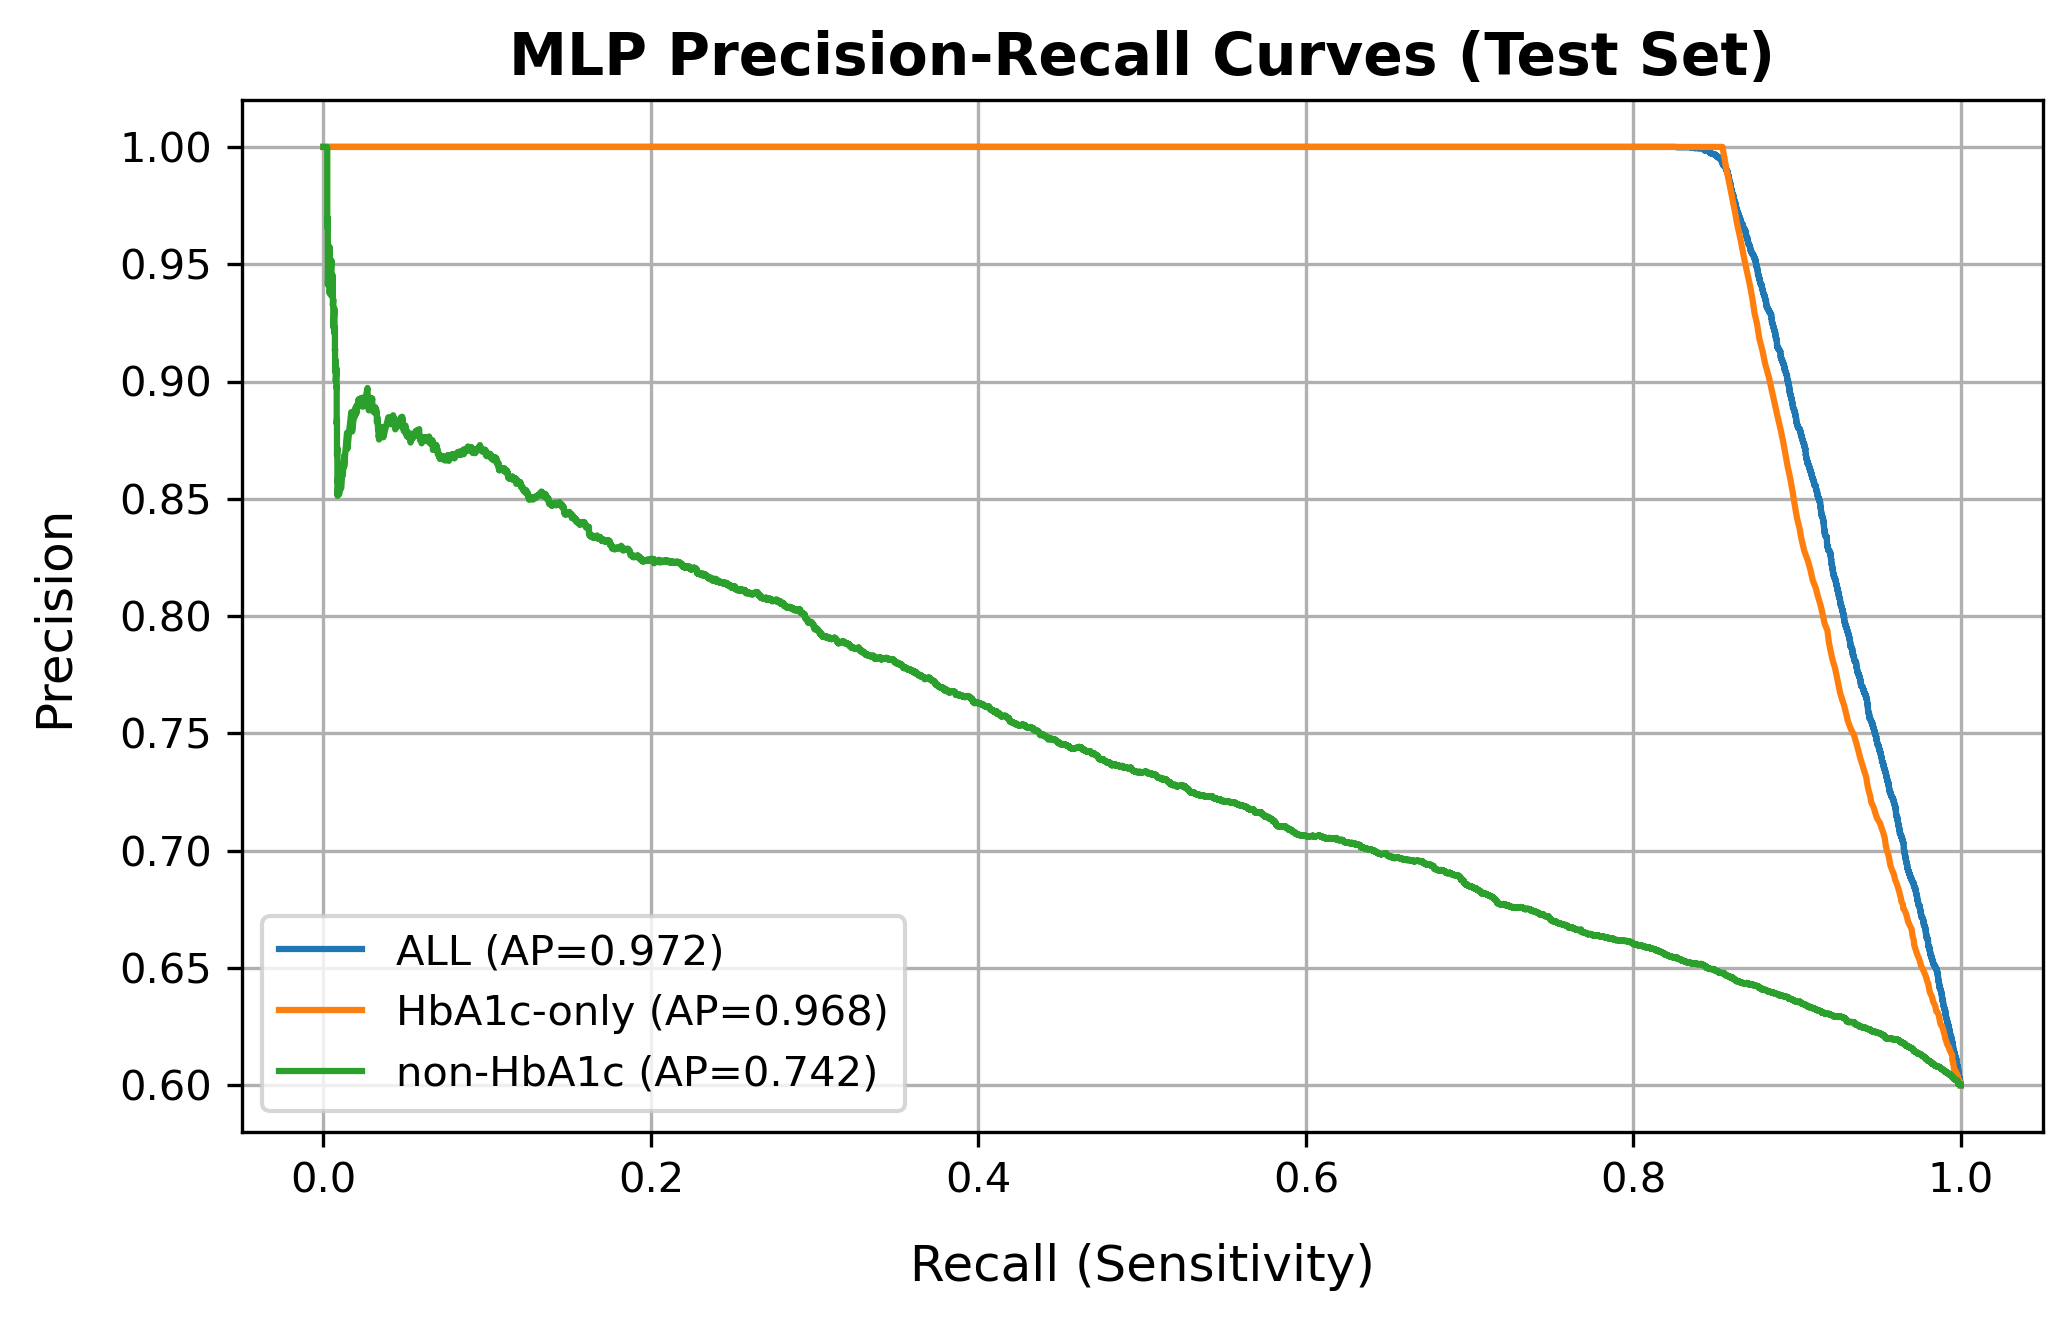
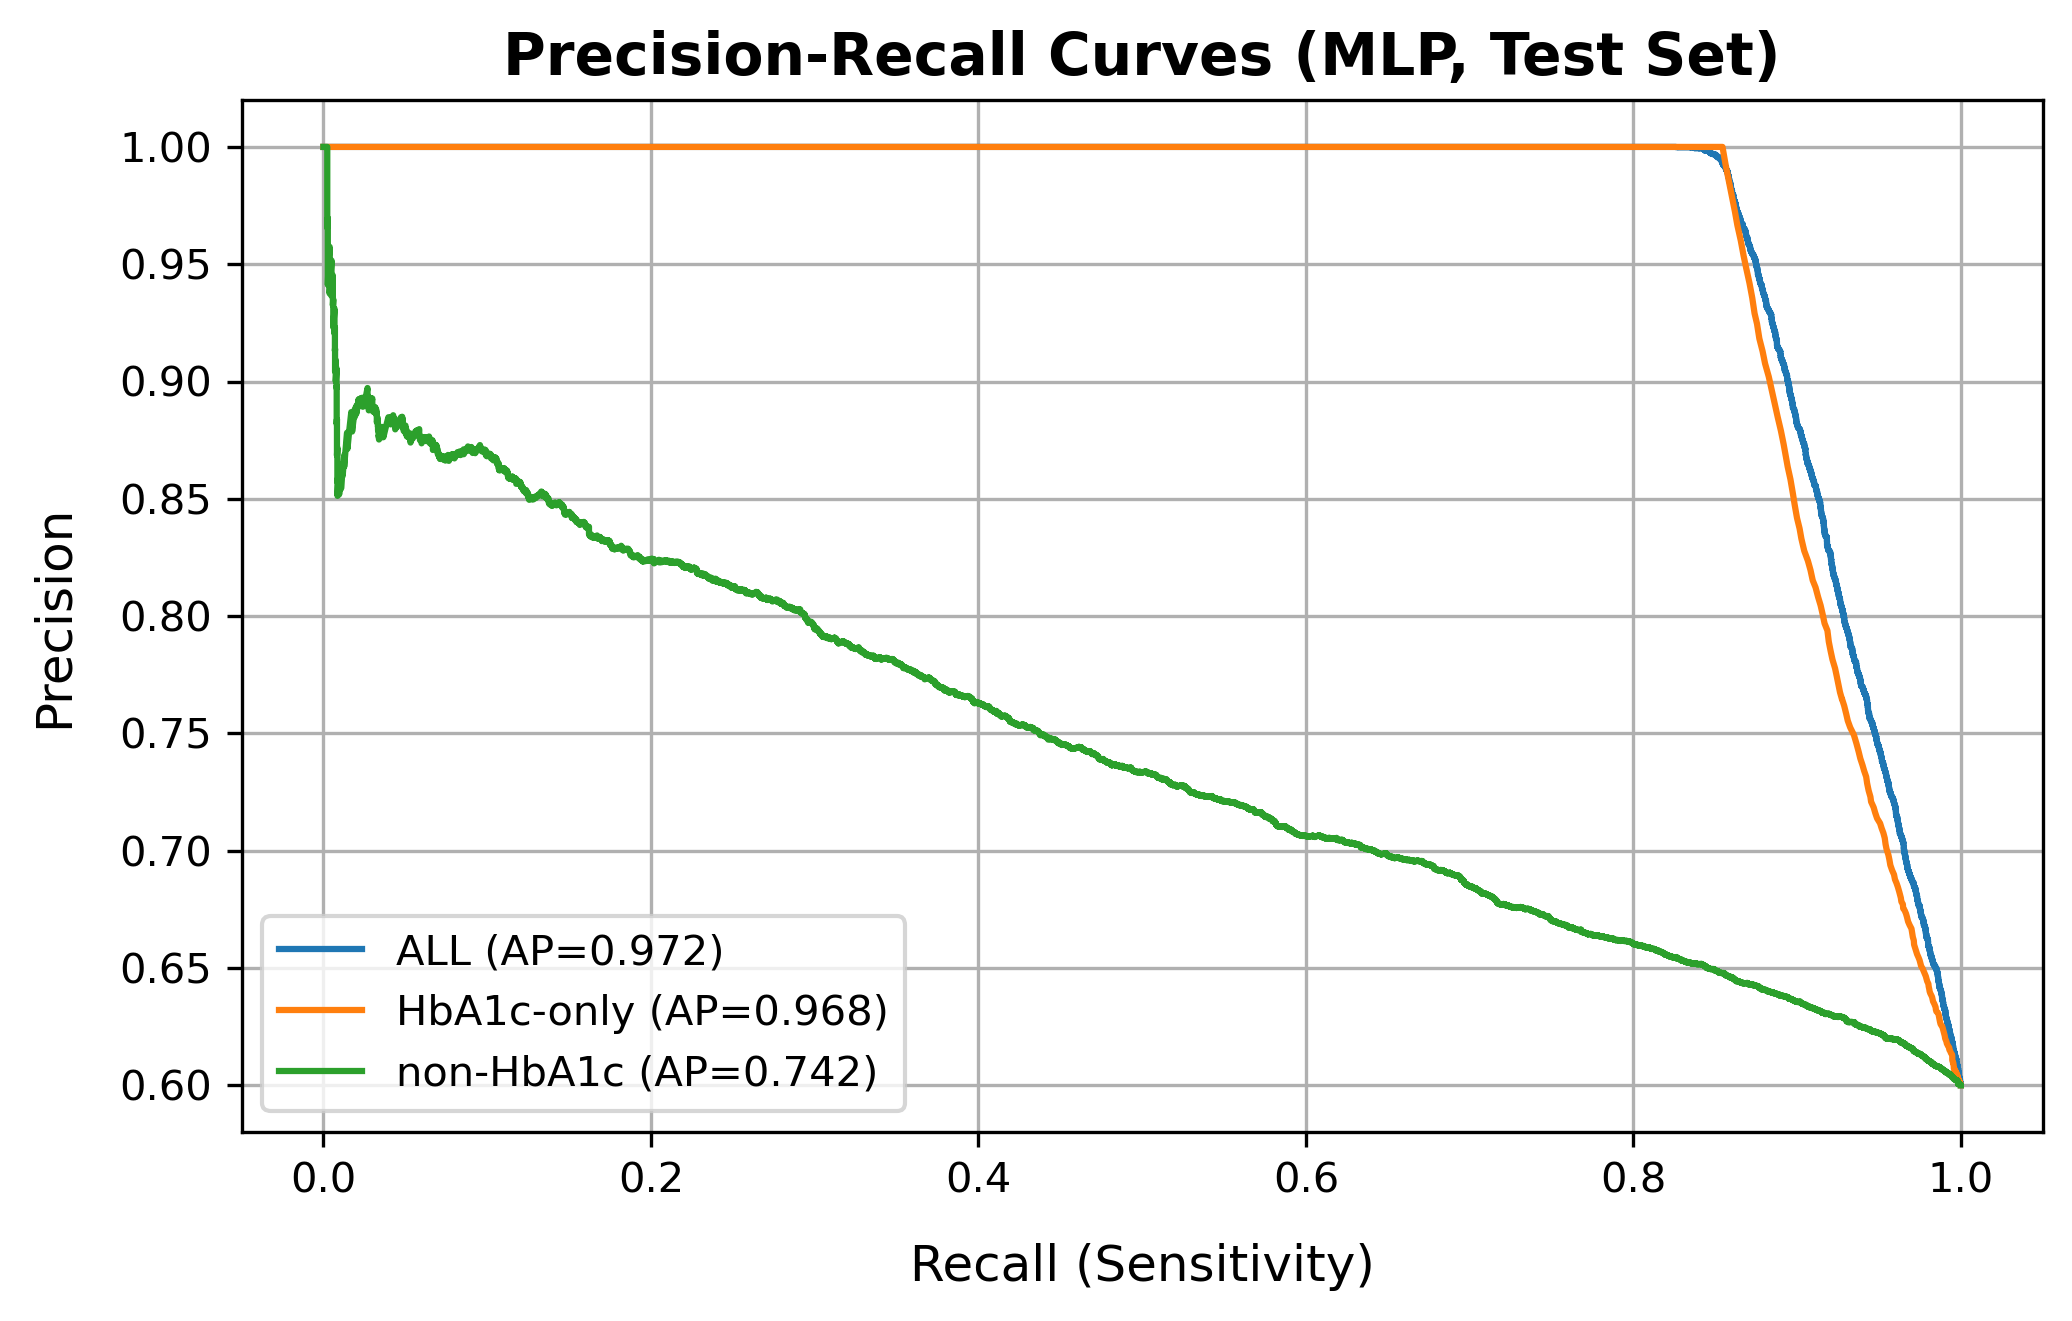
Updated README and mlp curve plots.

Changed region(s): [[0.2471, 0.0, 0.8649, 0.0621]]

diff --git a/README.md b/README.md
@@ -33,22 +33,26 @@ data/
 ├── raw/                        # Raw input dataset
 │   └── diabetes_dataset.csv
 ├── processed/                  # Directory for generated, reproducible processed data
-│   └── .gitkeep                # GitHub placeholder file
+|   ├── splits/                 # Stratified 80/20 train and test splits from raw data
+|   ├── curated/                # Train / test splits post-removal of specified variables
+│   └── reduced/                # Reduced datasets used for nested comparison
 
 notebooks/
 └── final_project.ipynb         # Single submission notebook (run top-to-bottom)
 
 src/
 ├── __init__.py                 # Source package initializer
+├── paths.py                    # Centralized project paths and directory initializations
 ├── io.py                       # Data loading/saving and path utilities
+├── schema.py                   # Dataset schema and validation reference
 ├── preprocessing.py            # Cleaning, encoding, scaling, splitting
 ├── modeling.py                 # Model training/evaluation routines
 ├── metrics.py                  # Evaluation metrics and result summaries
 └── viz.py                      # EDA and model comparison visualizations
 
 results/
-├── figures/                    # Saved plots (EDA + model comparison)
-└── tables/                     # Saved tables (metrics, summaries)
+├── figures/                    # Saved plots, organized by notebook section
+└── tables/                     # Saved tables (CSV and LaTex), organized by notebook section
 
 reports/
 ├── final_presentations/        # Final written deliverables (report + slideshow)
@@ -143,25 +147,22 @@ The following supervised learning methods are evaluated:
 
 1. **Logistic Regression**
    - Baseline model
-   - Ridge and LASSO regularization for multicollinearity and interpretability
 
-2. **Random Forest**
-   - Tree-based ensemble for nonlinear interactions
-   - Feature importance comparisons
-
-3. **Gradient Boosting (XGBoost)**
+2. **Gradient Boosting (XGBoost)**
    - High-capacity ensemble method
-   - Bias–variance trade-off analysis
 
-4. **(Optional) Multilayer Perceptron (MLP)**
-   - Shallow neural network explored if time permits
+3. **Multilayer Perceptron (MLP)**
+   - Shallow neural network explored
 
 ---
 
 ## Evaluation Framework
 Models are compared using consistent metrics appropriate for a moderately imbalanced binary outcome (~60/40 split):
 
-- ROC-AUC (primary)
+- ROC-AUC
+- PR-AUC
+- Log-Loss
+- Brier's
 - Accuracy
 - Confusion matrix and derived metrics (precision, recall, F1)
 
